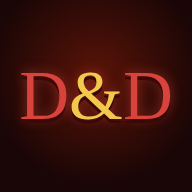
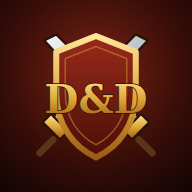
Iconos propios dibujados en SVG para la barra inferior y las habilidades, e icono nuevo de la aplicación
Claude-Session: https://claude.ai/code/session_01GzAKTrAXCcSRTRFvtWXWVH

diff --git a/public/icons.js b/public/icons.js
@@ -1,0 +1,71 @@
+// Iconos propios del juego (SVG de trazo fino, 24×24): barra inferior, habilidades y menús.
+// ICONS.svg('mochila', 28, '#ffd77a') devuelve el elemento <svg>; ICONS.skill(habilidad) elige icono y color.
+(function (root) {
+  'use strict';
+  // cada icono: trazos (d) y, si hace falta, zonas rellenas suaves (f)
+  const P = {
+    heroes: { d: 'M12 2.5 4.5 5.5v6c0 4.6 3.2 8.4 7.5 10 4.3-1.6 7.5-5.4 7.5-10v-6z M12 7.5v9 M8 11.5h8', f: 'M12 2.5 4.5 5.5v6c0 4.6 3.2 8.4 7.5 10 4.3-1.6 7.5-5.4 7.5-10v-6z' },
+    emotes: { d: 'M12 3a9 9 0 1 0 0 18 9 9 0 1 0 0-18z M8 14.5c1 1.6 2.4 2.5 4 2.5s3-.9 4-2.5 M9 9.4a.9.9 0 1 0 0 1.8.9.9 0 1 0 0-1.8z M15 9.4a.9.9 0 1 0 0 1.8.9.9 0 1 0 0-1.8z' },
+    dice: { d: 'M12 2.5 20.5 7.3v9.4L12 21.5 3.5 16.7V7.3z M12 7.5 16.5 15h-9z M12 2.5v5 M20.5 7.3 16.5 15 M3.5 7.3 7.5 15 M12 21.5 7.5 15 M12 21.5l4.5-6.5', f: 'M12 7.5 16.5 15h-9z' },
+    char: { d: 'M12 2 7.2 11.5h9.6z M4.5 12h15 M8.6 12.5c0 2.9 1.5 4.8 3.4 4.8s3.4-1.9 3.4-4.8 M5.5 21.5c.9-2.4 3.2-3.8 6.5-3.8s5.6 1.4 6.5 3.8 M12.6 6.2l.4 1.1 1.1.1-.9.7.3 1.1-.9-.6-.9.6.3-1.1-.9-.7 1.1-.1z', f: 'M12 2 7.2 11.5h9.6z' },
+    bag: { d: 'M8 8V6.5a4 4 0 0 1 8 0V8 M5 9.5A1.5 1.5 0 0 1 6.5 8h11A1.5 1.5 0 0 1 19 9.5V19a2.5 2.5 0 0 1-2.5 2.5h-9A2.5 2.5 0 0 1 5 19z M8.5 14h7v4.5h-7z M5 12.2h3.5 M15.5 12.2H19 M12 14v1.6', f: 'M8.5 14h7v4.5h-7z' },
+    guide: { d: 'M4 5.5C6.5 4 9.5 4 12 5.5v15c-2.5-1.5-5.5-1.5-8 0z M20 5.5C17.5 4 14.5 4 12 5.5v15c2.5-1.5 5.5-1.5 8 0z M6.5 9c1.3-.4 2.7-.4 3.5 0 M6.5 12c1.3-.4 2.7-.4 3.5 0 M14 9c1.3-.4 2.7-.4 3.5 0', f: 'M4 5.5C6.5 4 9.5 4 12 5.5v15c-2.5-1.5-5.5-1.5-8 0z' },
+    world: { d: 'M3 6.5 8.5 4l7 2.5L21 4v13.5L15.5 20l-7-2.5L3 20z M8.5 4v13.5 M15.5 6.5V20 M17.3 10.3l2 2 M19.3 10.3l-2 2 M5 12.5c1.2-1.2 2.4-.6 3.5.3', f: 'M8.5 4l7 2.5V20l-7-2.5z' },
+    stable: { d: 'M12 11.5c-3 0-5.5 2.6-5.5 5 0 1.8 1.4 3 3 3 1 0 1.6-.5 2.5-.5s1.5.5 2.5.5c1.6 0 3-1.2 3-3 0-2.4-2.5-5-5.5-5z M6.5 8.3a1.7 2 0 1 0 0 4 1.7 2 0 1 0 0-4z M10 4.6a1.8 2.2 0 1 0 0 4.4 1.8 2.2 0 1 0 0-4.4z M14 4.6a1.8 2.2 0 1 0 0 4.4 1.8 2.2 0 1 0 0-4.4z M17.5 8.3a1.7 2 0 1 0 0 4 1.7 2 0 1 0 0-4z', f: 'M12 11.5c-3 0-5.5 2.6-5.5 5 0 1.8 1.4 3 3 3 1 0 1.6-.5 2.5-.5s1.5.5 2.5.5c1.6 0 3-1.2 3-3 0-2.4-2.5-5-5.5-5z' },
+    svc: { d: 'M3 9 12 3.5 21 9z M3.5 20.5h17 M4.5 18h15 M6.5 10.5V18 M10 10.5V18 M14 10.5V18 M17.5 10.5V18 M12 6.4v.1', f: 'M3 9 12 3.5 21 9z' },
+    dungeons: { d: 'M8 3.5a4.5 4.5 0 1 0 0 9 4.5 4.5 0 1 0 0-9z M11.2 11.2 20.5 20.5 M15.6 15.6l2.4-2.4 M18.2 18.2l2.4-2.4 M8 6.5a1.5 1.5 0 1 0 0 3 1.5 1.5 0 1 0 0-3z', f: 'M8 3.5a4.5 4.5 0 1 0 0 9 4.5 4.5 0 1 0 0-9z' },
+    drink: { d: 'M5 7.5h10v11A2.5 2.5 0 0 1 12.5 21h-5A2.5 2.5 0 0 1 5 18.5z M15 9.5h2a2.5 2.5 0 0 1 2.5 2.5v1.5A2.5 2.5 0 0 1 17 16h-2 M5 7.5c0-2 1.6-3.1 3.1-2.6C8.9 3.4 11 3.2 12 4.7c1.6-1 3.2.2 3 2.8 M8.5 11v7 M11.5 11v7', f: 'M5 7.5c0-2 1.6-3.1 3.1-2.6C8.9 3.4 11 3.2 12 4.7c1.6-1 3.2.2 3 2.8z' },
+    edit: { d: 'M14 3.5l6.5 6.5-2.8 2.8-6.5-6.5z M12.6 8.9 3.8 17.7a1.6 1.6 0 0 0 2.3 2.3l8.8-8.8 M15.5 5l1.5-1.5', f: 'M14 3.5l6.5 6.5-2.8 2.8-6.5-6.5z' },
+    menu: { d: 'M4 6.5h16 M4 12h16 M4 17.5h16' },
+    // habilidades
+    sword: { d: 'M14.5 3.5H20.5v6L9.5 20.5l-6-6z M5.5 12.5l6 6 M3.5 20.5l2.5-2.5', f: 'M14.5 3.5H20.5v6L9.5 20.5l-6-6z' },
+    slash: { d: 'M4 20 20 4 M7 20c5-2 11-8 13-13 M4 17c2-5 8-11 13-13', f: '' },
+    burst: { d: 'M12 2.5v4 M12 17.5v4 M2.5 12h4 M17.5 12h4 M5.3 5.3l2.8 2.8 M15.9 15.9l2.8 2.8 M18.7 5.3l-2.8 2.8 M8.1 15.9l-2.8 2.8 M12 9a3 3 0 1 0 0 6 3 3 0 1 0 0-6z', f: 'M12 9a3 3 0 1 0 0 6 3 3 0 1 0 0-6z' },
+    horn: { d: 'M4 9.5h3l8-5v15l-8-5H4z M18 8.5c1.2 1 1.8 2.2 1.8 3.5s-.6 2.5-1.8 3.5 M7 14.5l1.5 5h2.5l-1.5-5', f: 'M4 9.5h3l8-5v15l-8-5H4z' },
+    dash: { d: 'M13 4.5l7.5 7.5-7.5 7.5 M6 7.5l4.5 4.5L6 16.5 M3 10l2 2-2 2', f: '' },
+    missile: { d: 'M12 3l2.3 5 5.2.6-3.9 3.5 1.1 5.2L12 14.7 7.3 17.3l1.1-5.2L4.5 8.6l5.2-.6z M3 21l4-4', f: 'M12 3l2.3 5 5.2.6-3.9 3.5 1.1 5.2L12 14.7 7.3 17.3l1.1-5.2L4.5 8.6l5.2-.6z' },
+    fire: { d: 'M12 21.5c-4 0-6.5-2.8-6.5-6.3 0-3.7 3.5-5.5 3.5-9.7 2.2 1.2 3.8 3.3 4 5.6.9-.8 1.5-2 1.6-3.3 2.4 2 3.9 4.6 3.9 7.4 0 3.5-2.5 6.3-6.5 6.3z M12 21.5c-1.7 0-2.8-1.2-2.8-2.8 0-1.8 1.6-2.6 2.1-4.3 1.9 1.1 3.5 2.6 3.5 4.3 0 1.6-1.1 2.8-2.8 2.8z', f: 'M12 21.5c-4 0-6.5-2.8-6.5-6.3 0-3.7 3.5-5.5 3.5-9.7 2.2 1.2 3.8 3.3 4 5.6.9-.8 1.5-2 1.6-3.3 2.4 2 3.9 4.6 3.9 7.4 0 3.5-2.5 6.3-6.5 6.3z' },
+    snow: { d: 'M12 2.5v19 M3.8 7.2l16.4 9.6 M3.8 16.8l16.4-9.6 M9.5 4l2.5 2 2.5-2 M9.5 20l2.5-2 2.5 2 M3.5 10.2l3.2-.5-1.1-3 M20.5 13.8l-3.2.5 1.1 3 M3.5 13.8l3.2.5-1.1 3 M20.5 10.2l-3.2-.5 1.1-3', f: '' },
+    meteor: { d: 'M15 9a4.5 4.5 0 1 0 0 9 4.5 4.5 0 1 0 0-9z M11.5 10.5 3.5 2.5 M10.8 13.8 2.5 9.5 M13.7 9.2 9.5 2.5', f: 'M15 9a4.5 4.5 0 1 0 0 9 4.5 4.5 0 1 0 0-9z' },
+    arrows3: { d: 'M4 14 14 4 M14 4h-4 M14 4v4 M7 17 17 7 M17 7h-4 M17 7v4 M10 20 20 10 M20 10h-4 M20 10v4' },
+    arrow: { d: 'M3.5 20.5 19 5 M19 5h-5 M19 5v5 M3.5 20.5l1-3.5 M3.5 20.5l3.5-1 M6.5 15.5l2 2', f: '' },
+    rain: { d: 'M5 3v8 M5 11l-1.6-2 M5 11l1.6-2 M12 6v10 M12 16l-1.6-2 M12 16l1.6-2 M19 3v8 M19 11l-1.6-2 M19 11l1.6-2 M4 20.5h16', f: '' },
+    target: { d: 'M12 3a9 9 0 1 0 0 18 9 9 0 1 0 0-18z M12 7a5 5 0 1 0 0 10 5 5 0 1 0 0-10z M12 11a1 1 0 1 0 0 2 1 1 0 1 0 0-2z M12 1.5v3 M12 19.5v3 M1.5 12h3 M19.5 12h3', f: 'M12 11a1 1 0 1 0 0 2 1 1 0 1 0 0-2z' },
+    dagger: { d: 'M15.5 3.5l5 5-8.5 8.5-5-5z M9.5 14.5l-6 6 M5.5 13.5l5 5 M17 21a1.8 1.8 0 0 1-1.8-1.8c0-1.3 1.8-3.2 1.8-3.2s1.8 1.9 1.8 3.2A1.8 1.8 0 0 1 17 21z', f: 'M17 21a1.8 1.8 0 0 1-1.8-1.8c0-1.3 1.8-3.2 1.8-3.2s1.8 1.9 1.8 3.2A1.8 1.8 0 0 1 17 21z' },
+    shadow: { d: 'M12 3a9 9 0 1 0 9 9 M12 7a5 5 0 1 0 5 5 M12 11a1 1 0 1 0 1 1 M17 3.5l3.5 3.5 M20.5 3.5 17 7', f: '' },
+    sun: { d: 'M12 7.5a4.5 4.5 0 1 0 0 9 4.5 4.5 0 1 0 0-9z M12 2v2.5 M12 19.5V22 M2 12h2.5 M19.5 12H22 M4.9 4.9l1.8 1.8 M17.3 17.3l1.8 1.8 M19.1 4.9l-1.8 1.8 M6.7 17.3l-1.8 1.8', f: 'M12 7.5a4.5 4.5 0 1 0 0 9 4.5 4.5 0 1 0 0-9z' },
+    heal: { d: 'M12 20.5s-7.5-4.6-7.5-10.2A4.3 4.3 0 0 1 12 7.6a4.3 4.3 0 0 1 7.5 2.7c0 5.6-7.5 10.2-7.5 10.2z M12 10.5v6 M9 13.5h6', f: 'M12 20.5s-7.5-4.6-7.5-10.2A4.3 4.3 0 0 1 12 7.6a4.3 4.3 0 0 1 7.5 2.7c0 5.6-7.5 10.2-7.5 10.2z' },
+    healAll: { d: 'M12 18s-5-3-5-6.8A2.9 2.9 0 0 1 12 9.4a2.9 2.9 0 0 1 5 1.8C17 15 12 18 12 18z M12 3a9 9 0 1 0 0 18 9 9 0 1 0 0-18z', f: 'M12 18s-5-3-5-6.8A2.9 2.9 0 0 1 12 9.4a2.9 2.9 0 0 1 5 1.8C17 15 12 18 12 18z' },
+    aura: { d: 'M12 6.5 6.5 8.7v4c0 3.4 2.3 6.1 5.5 7.3 3.2-1.2 5.5-3.9 5.5-7.3v-4z M5 4.5c4-2.5 10-2.5 14 0', f: 'M12 6.5 6.5 8.7v4c0 3.4 2.3 6.1 5.5 7.3 3.2-1.2 5.5-3.9 5.5-7.3v-4z' },
+    hammer: { d: 'M6.5 3.5h11v6h-11z M12 9.5v11 M10.3 18h3.4 M9 3.5v6 M15 3.5v6', f: 'M6.5 3.5h11v6h-11z' },
+    wings: { d: 'M12 9.5c-1.5-4-5-6-9-6 0 6 3.5 9.5 9 10 M12 9.5c1.5-4 5-6 9-6 0 6-3.5 9.5-9 10 M12 9.5v12 M9.5 17.5h5', f: '' },
+    thorns: { d: 'M4 20c3-6 7-11 16-16 M8.2 13.8 6 11.5 M10.6 11 9.5 7.8 M13.5 8.5l3 .7 M11 13l3 1.5 M8 16.5l3 1', f: '' },
+    bolt: { d: 'M13.5 2.5 5.5 13.5h6l-1 8 8-11h-6z', f: 'M13.5 2.5 5.5 13.5h6l-1 8 8-11h-6z' },
+    roots: { d: 'M12 3v7 M12 10c-2 2-5 2.5-7.5 2.5 M12 10c2 2 5 2.5 7.5 2.5 M12 10v5 M12 15c-1.5 2-4 3-6 6 M12 15c1.5 2 4 3 6 6 M12 15v6.5 M8.5 6.5 12 8l3.5-1.5', f: '' },
+  };
+  const NS = 'http://www.w3.org/2000/svg';
+  function svg(name, size = 24, color = 'currentColor') {
+    const I = P[name] || P.missile;
+    const s = document.createElementNS(NS, 'svg');
+    s.setAttribute('viewBox', '0 0 24 24'); s.setAttribute('width', size); s.setAttribute('height', size);
+    s.setAttribute('aria-hidden', 'true'); s.classList.add('gi');
+    if (I.f) { const f = document.createElementNS(NS, 'path'); f.setAttribute('d', I.f); f.setAttribute('fill', color); f.setAttribute('opacity', '0.22'); s.appendChild(f); }
+    const p = document.createElementNS(NS, 'path');
+    p.setAttribute('d', I.d); p.setAttribute('fill', 'none'); p.setAttribute('stroke', color);
+    p.setAttribute('stroke-width', '1.7'); p.setAttribute('stroke-linecap', 'round'); p.setAttribute('stroke-linejoin', 'round');
+    s.appendChild(p);
+    return s;
+  }
+  // icono y color de cada habilidad
+  const SKILL = {
+    golpe: ['slash', '#e8e4d8'], torbellino: ['burst', '#e8e4d8'], grito: ['horn', '#ffb04a'], carga: ['dash', '#e8e4d8'],
+    misiles: ['missile', '#b89aff'], bola: ['fire', '#ff8a3a'], escarcha: ['snow', '#9ad8ff'], meteoro: ['meteor', '#ff6a2a'],
+    multiple: ['arrows3', '#e8dcc0'], perforante: ['arrow', '#e8dcc0'], lluvia: ['rain', '#e8dcc0'], marca: ['target', '#ff6a5a'],
+    punalada: ['dagger', '#e8e4d8'], veneno: ['dagger', '#7ad85a'], sombra: ['shadow', '#b07aff'], abanico: ['burst', '#c8c8d0'],
+    sagrado: ['sun', '#ffd75a'], manos: ['heal', '#7dff8a'], aura: ['aura', '#ffd75a'], juicio: ['hammer', '#ffd75a'],
+    curar: ['heal', '#7dff8a'], llama: ['fire', '#ffe27a'], plegaria: ['healAll', '#7dff8a'], espiritus: ['wings', '#ffe9a8'],
+    zarzas: ['thorns', '#7ad85a'], rejuvenecer: ['heal', '#a8ff7a'], tormenta: ['bolt', '#d0b0ff'], raices: ['roots', '#9ad85a'],
+  };
+  const skill = (a, size = 26) => { const [n, c] = SKILL[a.id] || ['missile', '#ffd77a']; return svg(n, size, c); };
+  root.ICONS = { svg, skill, names: Object.keys(P) };
+})(typeof window !== 'undefined' ? window : globalThis);

diff --git a/public/dungeon.js b/public/dungeon.js
@@ -417,7 +417,8 @@
       const atk = document.createElement('div');
       atk.className = 'act-btn attack';
       atk.title = `Ataque básico: ${d.weapon.name} (${d.dmg[0]}–${d.dmg[1]}). Clic en un enemigo.`;
-      atk.innerHTML = '<span class="ic">⚔</span><span class="lb"></span><span class="cd"></span>';
+      atk.innerHTML = '<span class="ic"></span><span class="lb"></span><span class="cd"></span>';
+      atk.querySelector('.ic').appendChild(window.ICONS ? ICONS.svg('sword', 26, '#e8e4d8') : document.createTextNode('⚔'));
       atk.querySelector('.lb').textContent = d.weapon.name;
       bar.appendChild(atk);
     }
@@ -429,7 +430,7 @@
       b.title = `${a.name} (${i + 1}) · ${a.cost} energía · ${a.cd / 1000}s\n${a.desc}`;
       b.innerHTML = '<span class="k"></span><span class="ic"></span><span class="lb"></span><span class="cd"></span>';
       b.querySelector('.k').textContent = i + 1;
-      b.querySelector('.ic').textContent = a.icon;
+      b.querySelector('.ic').appendChild(window.ICONS ? ICONS.skill(a, 26) : document.createTextNode(a.icon));
       b.querySelector('.lb').textContent = a.name;
       b.onclick = () => castSkill(a);
       bar.appendChild(b);

diff --git a/public/style.css b/public/style.css
@@ -776,3 +776,10 @@ body.cb .dlog-line.loot-conjunto { color: #cc79a7; }
 .acct-field input { width: 100%; padding: 8px 10px; font-size: 16px; border-radius: 6px; border: 2px solid #5a3418; background: #fbf4e2; color: #2b1d14; }
 #acct-body .btn.big { width: 100%; margin-top: 6px; }
 #acct-body .title-row { margin-bottom: 6px; }
+
+/* Iconos propios */
+.gi { display: block; }
+.tool .ico .gi { filter: drop-shadow(0 2px 0 #000) drop-shadow(0 0 6px rgba(240, 192, 96, .25)); transition: transform .12s, filter .12s; }
+.tool:hover .ico .gi { transform: translateY(-2px) scale(1.06); filter: drop-shadow(0 2px 0 #000) drop-shadow(0 0 10px rgba(240, 192, 96, .7)); }
+@media (max-width: 820px) { .tool .ico .gi { width: 24px; height: 24px; } }
+.act-btn .ic .gi { margin: 0 auto; filter: drop-shadow(0 1px 0 #000); }

diff --git a/public/polish.js b/public/polish.js
@@ -22,6 +22,16 @@
     if (b) dim();
   }, true);
 
+  // ---------- Iconos propios en la barra inferior (en vez de emojis) ----------
+  if (window.ICONS) {
+    for (const b of document.querySelectorAll('#bar .tool[data-act]')) {
+      const ico = b.querySelector('.ico');
+      if (!ico || !ICONS.names.includes(b.dataset.act)) continue;
+      ico.textContent = '';
+      ico.appendChild(ICONS.svg(b.dataset.act, 30, '#f0c060'));
+    }
+  }
+
   // ---------- Subir de nivel ----------
   const lvl = el('div', 'lvlup hidden');
   lvl.innerHTML = '<div class="lvl-rays"></div><div class="lvl-card"><small>¡SUBES DE NIVEL!</small><b></b><span></span></div>';

diff --git a/public/ui.js b/public/ui.js
@@ -494,7 +494,7 @@
     const wrap = el('div', 'skills');
     for (const a of d.abilities) {
       const r = el('div', 'skill-row' + (a.ready ? '' : ' locked'));
-      r.append(el('span', 'skill-ic', a.icon));
+      { const ic = el('span', 'skill-ic'); if (window.ICONS) ic.appendChild(ICONS.skill(a, 26)); else ic.textContent = a.icon; r.append(ic); }
       const t = el('div', 'skill-t');
       t.append(el('b', '', `${a.name}${a.ready ? '' : ` · nivel ${a.unlock}`}`), el('small', '', `${RULES.CLASSES[a.cls].name} · ${a.cost} energía · ${a.cd / 1000} s · ${a.desc}`));
       r.appendChild(t);

diff --git a/public/index.html b/public/index.html
@@ -410,6 +410,7 @@
     window.addEventListener('unhandledrejection', (e) => { const r = e.reason; window.__errs.push({ msg: 'Promesa: ' + (r && r.message || r), src: '', line: 0 }); });
   </script>
   <script src="audio.js"></script>
+  <script src="icons.js"></script>
   <script src="map.js"></script>
   <script src="dungeon-data.js"></script>
   <script src="rules/items-data.js"></script>

diff --git a/CLAUDE.md b/CLAUDE.md
@@ -17,6 +17,9 @@ server/world.js         mundo abierto y NPC
 server/store.js         guardado en data/*.json
 public/index.html       página única y orden de carga de los scripts
 public/audio.js         sonido y música hechos con WebAudio (SFX.play, SFX.music)
+public/icons.js         iconos SVG propios (ICONS.svg, ICONS.skill) para la barra y las habilidades
+public/admin.js         novedades, mensaje del día, instalar como app y envío de errores del navegador
+public/portada.html     portada de presentación (/portada); guia.pdf es la guía para imprimir
 public/rules/engine.js  reglas: stats, razas, clases, habilidades, objetos estilo Diablo 2, afijos, botín, monstruos
 public/rules/progress.js forja, misiones, logros, descenso semanal
 public/rules/items-data.js tabla de nombre y aspecto de las 192 armaduras y 156 armas/escudos (4 variantes por nivel)
@@ -64,4 +67,6 @@ scripts/lint.js         comprobación de sintaxis (npm run lint)
 - Cuentas por token del navegador: 3 personajes y 3 servidores (Lejano, Humbrio, Sangriento).
 - `RULES_VERSION` + `migrateProfile` adaptan las partidas guardadas cuando cambian las reglas.
 - Render gratis no guarda el disco: el servidor manda a cada navegador una copia firmada de su cuenta (`dd-backup`, HMAC con `SAVE_SECRET`) y la restaura al entrar si la ha perdido.
+- Usuario y contraseña: la llave (token) de la cuenta se guarda cifrada en `a.login` (AES con SAVE_SECRET, contraseña con scrypt) y se devuelve al entrar desde otro dispositivo.
+- El dueño de cada servidor tiene /aviso, /silenciar, /hablar y /expulsar. Con ADMIN_KEY en el entorno, /admin?key=… enseña los conectados y los errores de los navegadores.
 - Los archivos estáticos se sirven con gzip y ETag; `assets/` y `vendor/` se guardan un día en el navegador.
